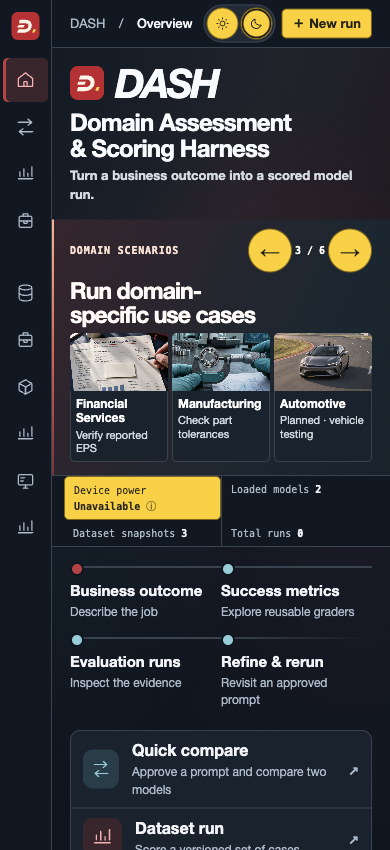
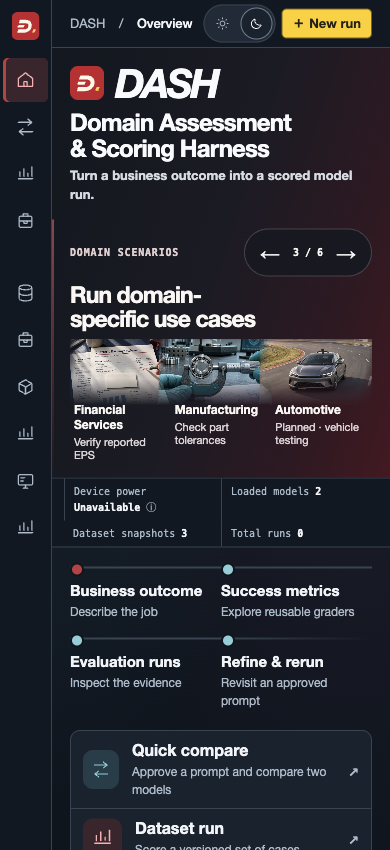
design: blend Overview photography and quiet the presenter controls (#20)

diff --git a/dash-desktop/ui/overview.css b/dash-desktop/ui/overview.css
@@ -22,8 +22,8 @@ body:has(.overview) .desk > header .button {
   position: relative;
   isolation: isolate;
   color: #f7fafe;
-  background: radial-gradient(ellipse at 65% 110%, #46212a, transparent 64%),
-    linear-gradient(110deg, #111b25, #20232b 48%, #20161c);
+  /* One exposure for the whole banner. Slides change artwork on top of it. */
+  background: linear-gradient(108deg, #131820 8%, #1b1b24 48%, #311822 79%, #481621);
 }
 .hero-copy {
   min-width: 0;
@@ -51,8 +51,8 @@ body:has(.overview) .desk > header .button {
 
 .capability-reel {
   --cut: clamp(32px, 4.5cqw, 76px);
-  --track-paper: #fffaf7;
-  --track-secondary: #ffe1d4;
+  --track-paper: #faf6f3;
+  --track-secondary: #e3cfd1;
   isolation: isolate;
   position: relative;
   min-width: 0;
@@ -71,15 +71,16 @@ body:has(.overview) .desk > header .button {
 .capability-reel::before {
   clip-path: polygon(var(--cut) 0, 100% 0, 100% 100%, 0 100%);
   background:
-    linear-gradient(180deg, #160c1380, transparent 25%, transparent 70%, #070a104d),
-    linear-gradient(90deg, #600f19bd, #47101c57 55%, #140b131c),
-    url("assets/scarlet-circuit.jpg") center / cover no-repeat,
-    linear-gradient(110deg, #7a1521, #281925);
+    linear-gradient(0deg, #17161d6b, transparent 46%),
+    url("assets/scarlet-circuit.jpg") 64% 52% / cover no-repeat;
+  mask-image: linear-gradient(105deg, transparent 2%, #0005 32%, #000 78%);
+  opacity: .86;
+  transition: opacity 350ms ease-out;
 }
 .capability-reel::after {
   width: calc(var(--cut) + 2px);
   clip-path: polygon(var(--cut) 0, 100% 0, 2px 100%, 0 100%);
-  background: linear-gradient(#ffb393, #e5564b 55%, #7c3038);
+  background: linear-gradient(170deg, #da5a65a6, #9c364853 63%, transparent);
 }
 .capability-toolbar {
   display: flex;
@@ -91,7 +92,16 @@ body:has(.overview) .desk > header .button {
   flex: none;
   display: flex;
   align-items: center;
-  gap: 3px;
+  gap: 1px;
+  padding: 1px 3px;
+  border: 1px solid #f1e4eb33;
+  border-radius: 999px;
+  background: #161820e8;
+  --button-ink: #f7f3f4;
+  --button-fill: transparent;
+  --button-border: transparent;
+  --button-hover: #37353f;
+  --button-active: #4c4550;
 }
 .capability-controls button {
   width: 34px;
@@ -100,6 +110,11 @@ body:has(.overview) .desk > header .button {
   padding: 0;
   border-radius: 50%;
   font: 500 20px/1 Arial, sans-serif;
+}
+.capability-controls button:focus-visible {
+  outline: 2px solid white;
+  outline-offset: -2px;
+  box-shadow: none;
 }
 .capability-position { font: 550 10px/1 var(--mono); white-space: nowrap; color: var(--track-paper); }
 .capability-controls [data-carousel="playback"] span {
@@ -129,32 +144,36 @@ body:has(.overview) .desk > header .button {
 .capability-reel[data-visual="industries"] .capability-standard { visibility: hidden; }
 .capability-reel[data-visual="industries"] .industry-view { visibility: visible; }
 .capability-reel[data-visual="industries"]::before {
-  background: linear-gradient(115deg, #39242d, #182731 72%, #17222c);
+  opacity: 0;
 }
 .industry-examples {
   display: grid;
   grid-template-columns: repeat(3, minmax(0, 1fr));
-  gap: clamp(4px, .7cqw, 10px);
-  margin-top: 6px;
+  --overlap: clamp(12px, 1.5cqw, 24px);
+  margin-top: 8px;
 }
-.industry-examples figure {
-  min-width: 0;
-  margin: 0;
-  overflow: hidden;
-  border-radius: 5px;
-  background: #18232e;
-  box-shadow: inset 0 0 0 1px #ffffff24;
-}
+.industry-examples figure { min-width: 0; margin: 0; }
 .industry-examples img {
   display: block;
   width: 100%;
-  height: clamp(58px, 7cqw, 88px);
+  height: clamp(66px, 7.4cqw, 94px);
   object-fit: cover;
+  mask-image: linear-gradient(to bottom, #000a, #000 9%, #000 60%, transparent),
+    linear-gradient(103deg, transparent, #000 var(--overlap));
+  mask-composite: intersect;
 }
-.industry-examples figcaption { padding: 5px 6px 7px; line-height: 1.22; }
+.industry-examples figure + figure img {
+  width: calc(100% + var(--overlap));
+  margin-inline-start: calc(-1 * var(--overlap));
+}
+.industry-examples figure:last-child img {
+  mask-image: linear-gradient(to bottom, #000a, #000 9%, #000 60%, transparent),
+    linear-gradient(103deg, transparent, #000 var(--overlap), #000 88%, transparent);
+}
+.industry-examples figcaption { position: relative; margin-top: -3px; padding: 0 4px 2px; line-height: 1.25; }
 .industry-examples strong, .industry-examples small { display: block; }
-.industry-examples strong { color: #fff; font-size: 12px; }
-.industry-examples small { margin-top: 3px; color: #d0dae4; font-size: 11px; }
+.industry-examples strong { color: var(--track-paper); font-size: 12px; }
+.industry-examples small { margin-top: 3px; color: #e0d4d8; font-size: 11px; }
 .capability-sizer, .capability-frame { grid-area: 1 / 1; }
 .capability-sizer { visibility: hidden; }
 .capability-context {
@@ -285,10 +304,15 @@ body:has(.overview) .desk > header .button {
 .timing-strip > a { color: var(--muted); }
 .timing-strip > a:hover { background: var(--selected); }
 .timing-strip .device-stat {
+  --button-fill: transparent;
+  --button-hover: var(--selected);
+  --button-active: var(--surface-soft);
+  --button-ink: var(--muted);
   height: 100%; min-height: 0; padding-inline: 9px;
-  border-inline-start-color: var(--button-border); anchor-name: --device-stat;
+  border: 0; border-inline-start: 1px solid var(--border); border-radius: 0;
+  anchor-name: --device-stat;
 }
-.timing-strip .device-stat strong { color: inherit; }
+.timing-strip .device-stat strong { color: var(--ink); }
 #device-details {
   position: fixed; inset: auto; position-anchor: --device-stat; left: anchor(left); top: anchor(bottom);
   width: min(305px, calc(100vw - 78px)); margin: 0; padding: 14px 16px;

diff --git a/dash-desktop/ui/style.css b/dash-desktop/ui/style.css
@@ -77,21 +77,21 @@ button,
   justify-content: center;
   gap: 6px;
 }
-button, .button, :where(#appearance label > span, .wf-domain label > span) {
+button, .button, :where(.wf-domain label > span) {
   color: var(--button-ink);
   background-color: var(--button-fill);
 }
-:where(#appearance label > span, .wf-domain label > span) { border: 1px solid var(--button-border); }
-button:enabled:hover, .button:hover, :where(#appearance, .wf-domain) label:hover input:enabled + span {
+:where(.wf-domain label > span) { border: 1px solid var(--button-border); }
+button:enabled:hover, .button:hover, :where(.wf-domain) label:hover input:enabled + span {
   background-color: var(--button-hover);
 }
-button:enabled:active, .button:active, :where(#appearance, .wf-domain) label:active input:enabled + span {
+button:enabled:active, .button:active, :where(.wf-domain) label:active input:enabled + span {
   background-color: var(--button-active);
 }
-button[aria-pressed="true"], :where(#appearance, .wf-domain) input:checked + span {
+button[aria-pressed="true"], :where(.wf-domain) input:checked + span {
   box-shadow: inset 0 0 0 2px currentColor;
 }
-button:disabled, :where(#appearance, .wf-domain) input:disabled + span {
+button:disabled, :where(.wf-domain) input:disabled + span {
   color: var(--button-disabled-ink);
   background-color: var(--button-disabled);
   border-color: var(--button-disabled-ink);
@@ -212,7 +212,16 @@ header {
 #appearance label { position: relative; cursor: pointer; }
 #appearance label > span {
   display: flex; align-items: center; justify-content: center; gap: 5px;
-  min-height: 27px; padding: 0 9px; border-radius: 16px;
+  min-height: 27px; padding: 0 9px; border: 1px solid transparent; border-radius: 16px;
+  color: var(--muted);
+}
+#appearance label:hover span { color: var(--ink); background: var(--panel); }
+#appearance input:checked + span {
+  color: var(--ink); background: var(--panel); border-color: var(--control-border);
+  box-shadow: 0 1px 2px #0d18221a;
+}
+#appearance input:focus-visible + span {
+  outline: 2px solid var(--focus); outline-offset: 1px;
 }
 #appearance .icon { width: 14px; height: 14px; }
 #appearance b { font-size: 12px; font-weight: 550; }
@@ -222,7 +231,7 @@ header {
   #appearance label > span { min-width: 32px; min-height: 32px; padding: 0; }
 }
 @media (pointer: coarse) {
-  #appearance label > span { min-width: 44px; min-height: 40px; }
+  #appearance label > span { min-width: 44px; min-height: 44px; }
 }
 header i {
   padding: 0 10px;
@@ -531,12 +540,12 @@ summary:focus-visible {
   outline: 2px solid var(--focus);
   outline-offset: 3px;
 }
-button:focus-visible, a.button:focus-visible, :where(#appearance, .wf-domain) input:focus-visible + span {
+button:focus-visible, a.button:focus-visible, :where(.wf-domain) input:focus-visible + span {
   outline: 2px solid #252116;
   outline-offset: 1px;
   box-shadow: 0 0 0 5px #fff, inset 0 0 0 1px var(--button-ink);
 }
-button[aria-pressed="true"]:focus-visible, :where(#appearance, .wf-domain) input:checked:focus-visible + span {
+button[aria-pressed="true"]:focus-visible, :where(.wf-domain) input:checked:focus-visible + span {
   box-shadow: 0 0 0 5px #fff, inset 0 0 0 2px var(--button-ink);
 }
 a.link:hover {

diff --git a/docs/design/README.md b/docs/design/README.md
@@ -8,7 +8,7 @@ ImageGen received the following prompt.
 
 The [DASH mark](../../dash-desktop/ui/assets/dash-mark.svg) is shared by the sidebar and Overview. The Dock uses its [1024 px PNG](../../dash-desktop/ui/assets/dash-icon.png). To regenerate that raster on macOS, run `sips -s format png dash-desktop/ui/assets/dash-mark.svg --out dash-desktop/ui/assets/dash-icon.png` from the repository root. The Mac bundle builds its icon set from the PNG.
 
-Use warm racing yellow (`#ffcf00`) with charcoal lettering (`#252116`) for buttons in both themes. Selected controls have an inset stroke, and disabled buttons use a muted sand fill.
+Use racing yellow (`#ffcf00`) with charcoal lettering for workflow actions such as **New run**. Light/Dark uses a bordered selection on the shell surface. The carousel groups its ivory arrows, slide count and playback control on graphite. Both controls have a separate keyboard focus indicator. Style the device power readout with its neighboring telemetry values.
 
 The [light](overview-light.png) and [dark](overview-dark.png) screenshots show the desktop workbench using an isolated test profile.
 
@@ -18,7 +18,7 @@ The [original prototype](DASH_Design_Prototype.html), [approved preview](DASH_De
 
 ## Industry photographs
 
-Slide 3 pairs each domain with its own locally bundled editorial photograph. The images were generated using OpenAI ImageGen and exported as JPEGs for offline use. The captions identify the shipped examples and the Automotive roadmap. See the [desktop view](industry-overview.png) and [phone-width view](industry-overview-mobile.png) captured from Electron.
+Slide 3 pairs each domain with its own locally bundled editorial photograph. The images were generated using OpenAI ImageGen and exported as JPEGs for offline use. The circuit and industry slides share a graphite-to-garnet ground. Feather the photographs at their edges and keep their centers clear. Captions sit below the photographs and identify the shipped examples and the Automotive roadmap. See the [desktop view](industry-overview.png) and [phone-width view](industry-overview-mobile.png) captured from Electron.
 
 - [Financial Services](../../dash-desktop/ui/assets/industry-financial.jpg) — Photorealistic editorial photograph for a DASH Financial Services banner, landscape 4:3. A close overhead view of a quarterly earnings release on ivory paper with paired columns of small printed financial figures, a small understated blue bar chart and a fingertip tracing one reported figure with a graphite pencil. A second sheet of financial statements beneath it on a navy desk. Strong natural window light, understated midnight blue and cream with a small muted crimson accent. Form a simple unmistakable focal point near the center for a small card. Real paper texture, clean precise editorial photography. No digital UI, overlaid titles, logos, car imagery or watermark.
 - [Manufacturing](../../dash-desktop/ui/assets/industry-manufacturing.jpg) — Photorealistic editorial photograph for a DASH Manufacturing banner, landscape 4:3. In a modern inspection lab, extreme close-up of a precision outside micrometer measuring the outer diameter of a silver machined bearing, discreet blue engineering drawing underneath on a dark slate inspection bench. A gloved technician's fingers hold the micrometer. Clear central silhouette of the bearing and measuring tool at small size. Directional cool daylight, brushed steel, restrained teal accent, tactile real detail. No overlaid titles, logos, car imagery or watermark.

diff --git a/docs/adr/0017-overview-controls-and-photography.md b/docs/adr/0017-overview-controls-and-photography.md
@@ -1,0 +1,11 @@
+# 0017. Give the Overview controls and photography a shared visual hierarchy
+
+**Status** Accepted
+
+During a walkthrough, the theme and slideshow controls competed with **New run**. The industry slide also replaced the circuit’s red-lit background with slate cards. Nik requested neutral presentation controls, blended images and continuity as the slides advance.
+
+Keep the action palette from [0007](0007-racing-yellow-actions.md) for workflow actions. Give the appearance switch a bordered neutral selection and the slideshow a single graphite control surface. Both have a visible keyboard focus indicator. Match the device power readout to the adjacent telemetry values. Keep the six slides on the same graphite-to-garnet gradient. The circuit fades out for the industry slide. Local CSS masks soften the photograph edges while the central subject and captions stay readable. This extends [0015](0015-industry-carousel.md).
+
+A different color treatment for every slide would make transitions more conspicuous. Tinting each entire photograph would obscure the paper, metal and paint that distinguish the three domains. Keep the original images intact so the crops and fades can adapt to the viewport.
+
+Verify the control colors in both themes through Electron. Review the slide at phone, intermediate and desktop widths, with pause, keyboard navigation and reduced motion. [Design guide and captured views](../design/README.md)

diff --git a/docs/adr/README.md b/docs/adr/README.md
@@ -29,6 +29,8 @@ Start here to learn why DASH works the way it does. Each numbered record explain
 | 2026-11-24 | [0015 · Industry carousel](0015-industry-carousel.md) | Accepted | Nik confirmed industry-specific images with a vehicle for Automotive. Show the planned status beside its image. | [Issue #11](https://github.com/niksacdev/dash/issues/11) |
 | 2026-11-24 | [0016 · macOS identity](0016-macos-app-identity.md) | Proposed | Extend 0003 with a local Finder launcher and the shared DASH mark. | [Mac packaging script](../../dash-desktop/scripts/package-mac.mts) |
 | 2026-11-24 | [0016 · macOS identity](0016-macos-app-identity.md) | Accepted | Nik requested the DASH name, logo and tagline on macOS. Preserve the local profile across launch methods. | [Mac operator guide](../reader/src/first-run.md) |
+| 2026-11-24 | [0017 · Overview controls and photography](0017-overview-controls-and-photography.md) | Proposed | Extend 0007 and 0015 to give presentation controls a neutral treatment and retain a common banner palette. | [Design guide](../design/README.md) |
+| 2026-11-24 | [0017 · Overview controls and photography](0017-overview-controls-and-photography.md) | Accepted | Nik requested the Light/Dark and slide controls lose their yellow fill and the photography blend into a consistent background. | [Design decision](0017-overview-controls-and-photography.md) |
 
 ## Maintaining the history
 

diff --git a/docs/reader/src/index.md b/docs/reader/src/index.md
@@ -4,7 +4,7 @@
 
 DASH helps you test whether a model makes the right business decision. A Financial Services team can check whether an earnings extractor reports GAAP EPS. A Manufacturing team can check whether an inspector releases a part against the correct drawing revision.
 
-On **Overview**, use the carousel arrows to reach **Run domain-specific use cases**. The earnings review and part inspection have runnable scenarios. The Automotive proving-ground example is planned.
+On **Overview**, choose **Light** or **Dark** in the header. Use the arrows in the banner to move through the slides at your own pace. **Run domain-specific use cases** shows the three industry examples together. The earnings review and part inspection have runnable scenarios. The Automotive proving-ground example is planned.
 
 **New to DASH?** [Start with a recorded earnings case](first-run.md). See why a recorded answer fails the scenario grader before choosing a live model.
 
